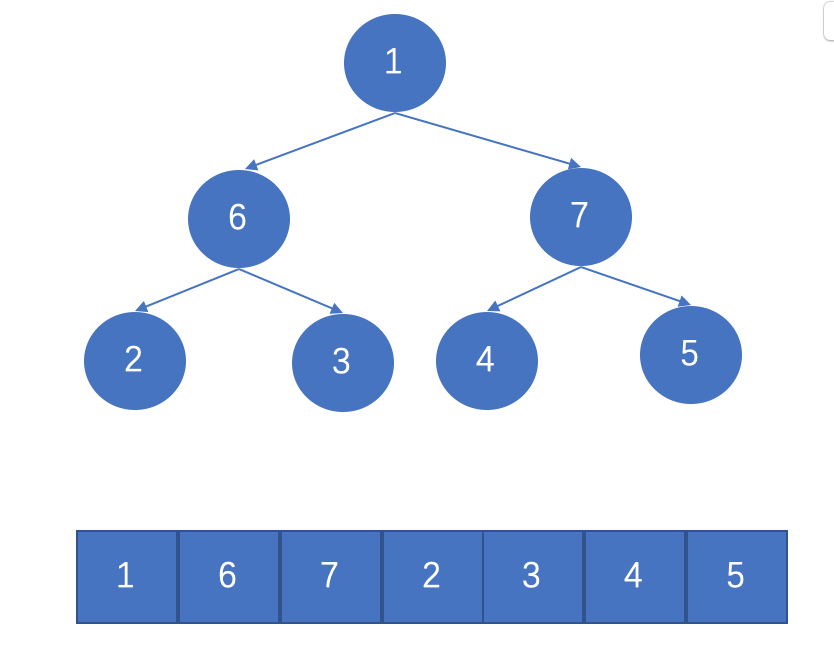
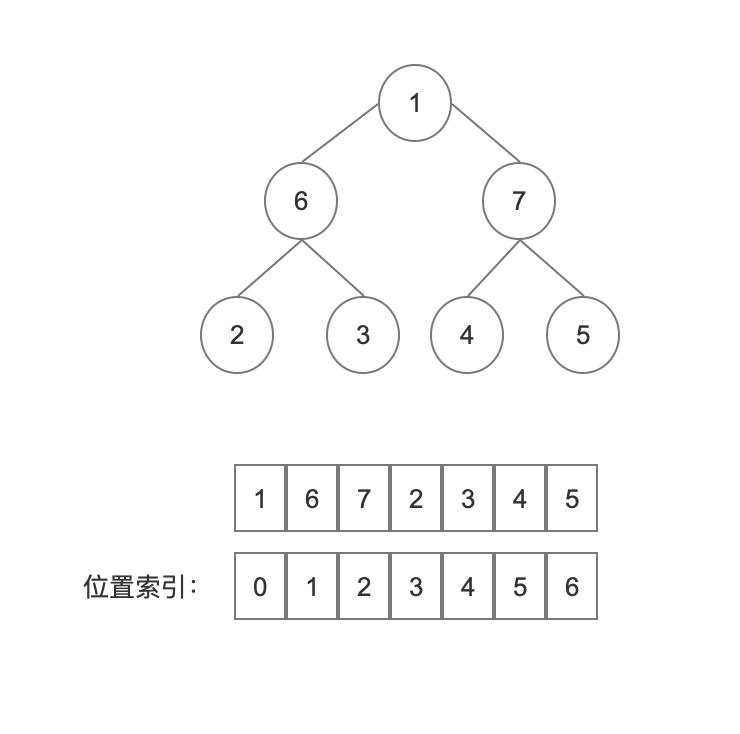
add HeapSort

Changed region(s): [[0.0932, 0.0, 0.9635, 0.9816], [0.0932, 0.4601, 0.2486, 0.6442], [0.5595, 0.092, 0.6527, 0.184]]

diff --git a/算法/堆排序.md b/算法/堆排序.md
@@ -4,6 +4,7 @@
 
 - [https://www.cnblogs.com/Java3y/p/8639937.html](https://www.cnblogs.com/Java3y/p/8639937.html)
 - [https://www.cnblogs.com/skywang12345/p/3602162.html](https://www.cnblogs.com/skywang12345/p/3602162.html)
+- [https://baijiahao.baidu.com/s?id=1633787468367767177&wfr=spider&for=pc](https://baijiahao.baidu.com/s?id=1633787468367767177&wfr=spider&for=pc)
 
 堆排序(Heapsort)是指利用堆积树（堆）这种数据结构所设计的一种排序算法，它是选择排序的一种. 堆分为大根堆和小根堆, 是完全二叉树.
 
@@ -22,6 +23,8 @@
 
 - 左边子结点索引 = 当前父结点索引的2倍 + 1
 - 右边子结点索引 = 当前父结点索引的2倍 + 2
+- n个元素，叶子结点分别是：n/2+1(向下取整), n/2+2, ..., n  比如[7, 6, 1, 2, 3, 4, 5]这一共7个元素，则叶子结点从第7/2 +1开始，即从第4个开始住后是叶子结点 [注：如果按索引从0开始，则第4个，对应的索引index为3]
+- n个元素，如果从1开始，第一个非叶子结点为：n/2, 比如[7, 6, 1, 2, 3, 4, 5]这一共7个元素，第一个非叶子结点为：7/2 (向下取整) = 3;  如果从0开始，第一个非叶子结点为：(n+1)/2 - 1, 比如比如[7, 6, 1, 2, 3, 4, 5]这一共7个元素，最大索引为6，第一个非叶子结点为：(6+1)/2 - 1 = 2
 
 ![](images/10.png)
 
@@ -41,8 +44,86 @@
 
 我们一层层交换数据, 把最大值7放在根部, 然后把7和数组中最后一位数交换, 这样最大值就在最后一位了, 这就是一趟排序, 然后再对除最后一个元素外的剩下的元素今次处理. 通过不断的建堆，交换....建堆，交换...建堆，交换...建堆，交换..达到排序结果. 
 
+依上图，我们可以把上图的[1, 6, 7, 2, 3, 4, 5]看成一个完全二叉树，先从非叶子结点的最后一位7(索引为2开始)，发现子树[7, 4, 5]符合，再看6，发现子树[6， 2，3 ]符合，再看根结点为1，发现[1, 6, 7]不符合，这时候交换1和7，交换之后变成：
 
+![](images/11.png)
 
+这就是一次排序过程，一次过后，根结点元素就是最大元素，然后把根结点值放在最后，数组变成了：
 
+![](images/12.png)
 
+即每一次排序都会让根结点的值变成最大的，然后把根结点的值交换到数组的最后位置。
 
+下面我们把整个堆排序的图示全部列出：
+
+![](images/13.png)
+
+**java代码示例**
+
+```java
+public class HeapSort {
+    public static void sort(int[] src) {  
+        int maxIndex = src.length - 1;
+        // buildHeap(src, 6, 2)
+        // buildHeap(src, 5, 2)
+        // buildHeap(src, 4, 1)
+        // buildHeap(src, 3, 1)
+        // buildHeap(src, 2, 0)
+        // buildHeap(src, 1, 0)
+        for (int i = src.length - 1; i > 0; i--) {
+            System.out.println("maxIndex: " + maxIndex);
+            buildHeap(src, maxIndex);
+            swap(src, maxIndex, 0);
+            System.out.println();
+
+            --maxIndex;
+        }
+
+        System.out.println("排序结果：");
+        for (int value : src) {
+            System.out.print(value + "  ");
+        }
+    }
+
+    /**
+     * 一次建堆排序，得到一个最大值放入末尾
+     * @param src 数组
+     * @param maxIndex 最大索引位置
+     * @param index 最后一个非叶子结点的索引位置
+     */
+    public static void buildHeap(int[] src, int maxIndex) {
+        int index = (maxIndex+1) / 2 - 1;
+        for (int i = index; i >= 0; i--) { // 非叶子结点的索引
+            // System.out.println("索引： " + i);
+            int maxPosition = i;
+            int left = i*2 + 1;
+            int right = i*2 + 2;
+            int current = src[i];
+            if (left <= maxIndex && current < src[left]) {
+                maxPosition = left;
+                current = src[maxPosition];
+            }
+            if (right <= maxIndex && current < src[right]) {
+                maxPosition = right;
+            }
+            if (maxPosition != i) {
+                swap(src, maxPosition, i);
+            }
+        }
+    }
+
+    public static void swap(int[] src, int i, int j) {
+        System.out.println("交换：" + src[i] + "< === > " + src[j]);
+        int temp = src[i];
+        src[i] = src[j];
+        src[j] = temp;
+    }
+
+    public static void main(String[] args) {
+        // int[] src = new int[] {1, 6, 7, 2, 3, 4, 5};
+        // int[] src = new int[] {12, 11, 13, 5, 6, 7};
+        int[] src = new int[] {12, 11, 1, 6, 7, 2, 3, 4, 5, 12, 12, 13, 5, 5, 6, 7};
+        HeapSort.sort(src);
+    }
+}
+```
